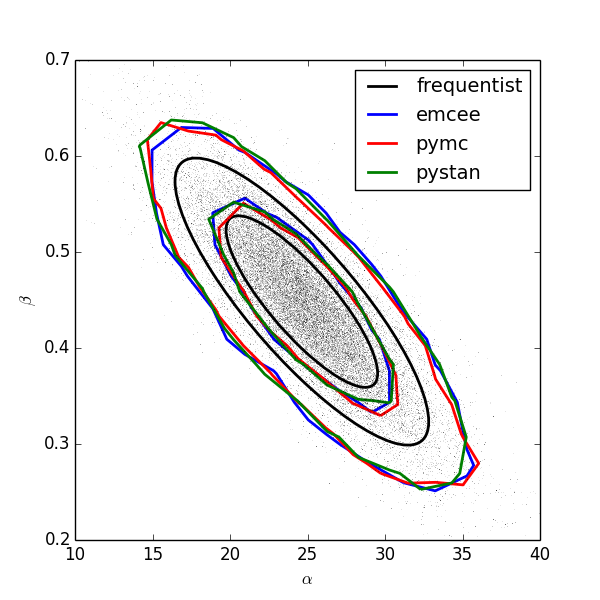
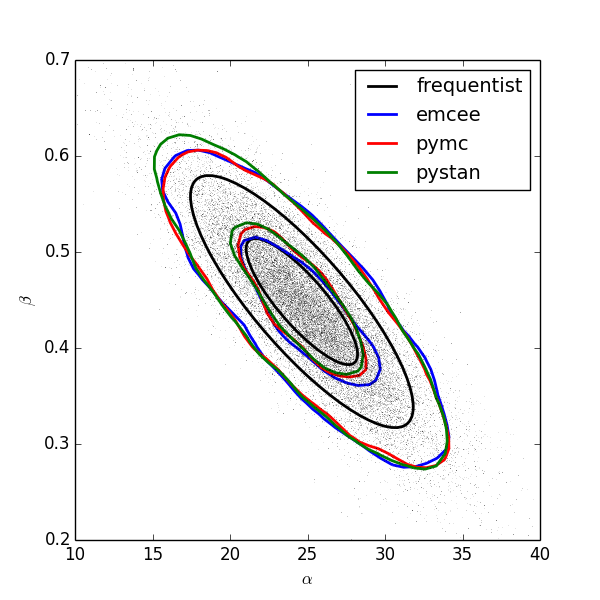
fix 1sigma 2sigma results

Changed region(s): [[0.21, 0.18, 0.81, 0.84]]

diff --git a/papers/jake_vanderplas/generate_figures.py b/papers/jake_vanderplas/generate_figures.py
@@ -1,7 +1,7 @@
 import numpy as np
 import matplotlib.pyplot as plt
 from scipy import stats
-from scipy.special import erfinv
+from scipy import ndimage
 
 
 ############################################################
@@ -139,7 +139,7 @@ print("PyStan version: {0}".format(pystan.__version__))
 # Create the Stan model
 #  this is done by defining a string of Stan code.
 
-fit_code = """
+model_code = """
 data {
     int<lower=0> N; // number of points
     real x[N]; // x values
@@ -171,18 +171,19 @@ model {
 """
 
 # perform the fit
-fit_data = {'N': len(xdata), 'x': xdata, 'y': ydata}
-fit = pystan.stan(model_code=fit_code, data=fit_data, iter=25000, chains=4)
+data = {'N': len(xdata), 'x': xdata, 'y': ydata}
+fit = pystan.stan(model_code=model_code, data=data,
+                  iter=25000, chains=4)
 
 # extract the traces
-traces = fit.extract()
-pystan_trace = [traces['alpha'], traces['beta'], traces['sigma']]
+tr = fit.extract()
+pystan_trace = [tr['alpha'], tr['beta'], tr['sigma']]
 
 #----------------------------------------------------------------------
 # Visualize the results
 # Create some convenience routines for plotting
 
-def compute_sigma_level(trace1, trace2, nbins=20):
+def compute_sigma_level(trace1, trace2, nbins=20, smoothing=3):
     """From a set of traces, bin by number of standard deviations"""
     L, xbins, ybins = np.histogram2d(trace1, trace2, nbins)
     L[L == 0] = 1E-16
@@ -197,17 +198,27 @@ def compute_sigma_level(trace1, trace2, nbins=20):
 
     L_cumsum = L[i_sort].cumsum()
     L_cumsum /= L_cumsum[-1]
+
+    sigma = L_cumsum[i_unsort].reshape(shape)
+
+    if smoothing > 1:
+        sigma = ndimage.zoom(sigma, smoothing)
+        xbins = np.linspace(xbins[0], xbins[-1], sigma.shape[0] + 1)
+        ybins = np.linspace(ybins[0], ybins[-1], sigma.shape[1] + 1)
     
     xbins = 0.5 * (xbins[1:] + xbins[:-1])
     ybins = 0.5 * (ybins[1:] + ybins[:-1])
 
-    return xbins, ybins, L_cumsum[i_unsort].reshape(shape)
+    return xbins, ybins, sigma
 
 
-def plot_MCMC_trace(ax, xdata, ydata, trace, scatter=False, **kwargs):
+def plot_MCMC_trace(ax, xdata, ydata, trace, scatter=False,
+                    nbins=20, smoothing=3, **kwargs):
     """Plot traces and contours"""
-    xbins, ybins, sigma = compute_sigma_level(trace[0], trace[1])
-    ax.contour(xbins, ybins, sigma.T, levels=[0.683, 0.955], **kwargs)
+    xbins, ybins, sigma = compute_sigma_level(trace[0], trace[1],
+                                              nbins, smoothing)
+
+    ax.contour(xbins, ybins, sigma.T, levels=[0.683 ** 2, 0.955 ** 2], **kwargs)
     if scatter:
         ax.plot(trace[0], trace[1], ',k', alpha=0.1)
     ax.set_xlabel(r'$\alpha$')
@@ -240,12 +251,9 @@ plot_MCMC_trace(ax, xdata, ydata, pystan_trace,
 from matplotlib.patches import Ellipse
 
 sigma1, sigma2, alpha = get_principal(Sigma_freq)
-for level in [0.683, 0.955]:
-    # 2 dimensions: we need frac^2 = level
-    # in order to compare directly with MCMC contours
-    nsigma_eff = np.sqrt(2) * erfinv(np.sqrt(level))
+for nsigma in [1, 2]:
     ax.add_patch(Ellipse(theta_freq,
-                         2 * nsigma_eff * sigma1, 2 * nsigma_eff * sigma2,
+                         2 * nsigma * sigma1, 2 * nsigma * sigma2,
                          angle=np.degrees(alpha),
                          lw=2, ec='k', fc='none'))
 

diff --git a/papers/jake_vanderplas/jake_vanderplas.rst b/papers/jake_vanderplas/jake_vanderplas.rst
@@ -1,6 +1,6 @@
 :author: Jake VanderPlas
 :email: jakevdp@cs.washington.edu
-:institution: University of Washington
+:institution: eScience Institute, University of Washington
 
 ---------------------------------------------------
 Frequentism and Bayesianism: A Python-driven Primer
@@ -8,7 +8,7 @@ Frequentism and Bayesianism: A Python-driven Primer
 
 .. class:: abstract
 
-   This paper gives a brief, semi-technical introduction to the essential differences between the frequentist and Bayesian approaches to statistical inference, with examples implemented in Python. The fundamental difference between frequentism and Bayesianism is a matter of the definition of probability. This difference of philosophy leads to different approaches to certain problems, and different ways of asking and answering questions about unknown parameters. After discussing these and giving some examples, we briefly compare three leading Python packages for performing Bayesian inference in practice. [#blog]_
+   This paper gives a brief, semi-technical introduction to the essential differences between the frequentist and Bayesian approaches to statistical inference, with examples implemented in Python. The fundamental difference between frequentism and Bayesianism is a matter of the definition of probability. This difference of philosophy leads to different approaches to certain problems, and different ways of asking and answering questions about unknown parameters. After discussing these and giving some examples, we briefly compare three leading Python packages for performing Bayesian inference in Python via Markov Chain Monte Carlo. [#blog]_
 
 .. class:: keywords
 
@@ -39,9 +39,9 @@ A Simple Example: Photon Counts
 -------------------------------
 Here we'll take a look at an extremely simple problem, and compare the frequentist and Bayesian approaches to solving it. Imagine that we point a telescope to the sky, and observe the light coming from a single star. For simplicity, we'll assume that the star's true flux is constant with time, i.e. that is it has a fixed value :math:`F`; we'll also ignore effects like sky background systematic errors. We'll assume that a series of :math:`N` measurements are performed, where the :math:`i^{\rm th}` measurement reports the observed photon flux :math:`F_i` and error :math:`e_i`. The question is, given this set of measurements :math:`D = \{F_i,e_i\}`, what is our best estimate of the true flux :math:`F`? [#note_about_errors]_ 
 
-.. [#note_about_errors] We'll make the reasonable assumption that measurement errors are Gaussian. In a Frequentist perspective, :math:`e_i` is the standard deviation of the results of a single measurement event in the limit of repetitions of *that event*. In the Bayesian perspective, :math:`e_i` describes the probability distribution of our knowledge of that particular measurement given its observed value.
+.. [#note_about_errors] We'll make the reasonable assumption of normally-distributed measurement errors. In a Frequentist perspective, :math:`e_i` is the standard deviation of the results of the single measurement event in the limit of (imaginary) repetitions of *that event*. In the Bayesian perspective, :math:`e_i` describes the probability distribution which quantifies our knowledge of :math:`x` given :math:`x_i`.
 
-First we'll use Python to generate some toy data to demonstrate the two approaches to the problem. We'll draw 50 samples with a mean of 1000, with a (known) error :math:`e_i` on point :math:`i`:
+First we'll use Python to generate some toy data to demonstrate the two approaches to the problem. We'll draw 50 samples :math:`F_i` with a mean of 1000 and a (known) error :math:`e_i`:
 
 .. code-block:: python
 
@@ -49,38 +49,36 @@ First we'll use Python to generate some toy data to demonstrate the two approach
     >>> e = np.random.normal(30, 3, 50)
     >>> F = np.random.normal(1000, e)
 
-In this toy example we already know the true flux :math:`F`, but the question is this: **given our measurements and errors, what is our best point estimate of the true flux?**
-
-Let's take a look at the frequentist and Bayesian approaches to solving this.
+In this toy example we already know the true flux :math:`F`, but the question is this: given our measurements and errors, what is our best point estimate of the true flux? Let's look at a frequentist and a Bayesian approach to solving this.
 
 
 Frequentist Approach to Photon Counts
 ~~~~~~~~~~~~~~~~~~~~~~~~~~~~~~~~~~~~~
-We'll start with the classical frequentist **maximum likelihood** approach. Given a single observation :math:`D_i = (F_i, e_i)`, we can compute the probability distribution of the measurement given the true flux :math:`F` given our assumption of Gaussian errors:
+We'll start with the classical frequentist maximum likelihood approach. Given a single observation :math:`D_i = (F_i, e_i)`, we can compute the probability distribution of the measurement given the true flux :math:`F` given our assumption of Gaussian errors:
 
 .. math::
 
     P(D_i|F) = \left(2\pi e_i^2\right)^{-1/2} \exp{\left(\frac{-(F_i - F)^2}{2 e_i^2}\right)}.
 
-This should be read "the probability of :math:`D_i` given :math:`F` equals ...". You should recognize this as a normal distribution with mean :math:`F` and standard deviation :math:`e_i`. We construct the **likelihood** by computing the product of the probabilities for each data point:
+This should be read "the probability of :math:`D_i` given :math:`F` equals ...". You should recognize this as a normal distribution with mean :math:`F` and standard deviation :math:`e_i`. We construct the *likelihood* by computing the product of the probabilities for each data point:
 
 .. math::
 
     \mathcal{L}(D|F) = \prod_{i=1}^N P(D_i|F)
 
-Here :math:`D = \{D_i\}` represents the entire set of measurements. Because the value of the likelihood can become very small, it is often more convenient to instead compute the log-likelihood. Combining the previous two equations:
+Here :math:`D = \{D_i\}` represents the entire set of measurements. Because the value of the likelihood can become very small, it is often more convenient to instead compute the log-likelihood. Combining the previous two equations gives
 
 .. math::
 
-    \log\mathcal{L} = -\frac{1}{2} \sum_{i=1}^N \left[ \log(2\pi  e_i^2) + \frac{(F_i - F)^2}{e_i^2} \right]
+    \log\mathcal{L} = -\frac{1}{2} \sum_{i=1}^N \left[ \log(2\pi  e_i^2) + \frac{(F_i - F)^2}{e_i^2} \right].
 
-What we'd like to do is determine :math:`F` such that the likelihood is maximized. For this simple problem, the maximization can be computed analytically (i.e. by setting :math:`d\log\mathcal{L}/dF = 0`), which results in the following point estimate of :math:`F`:
+What we'd like to do is determine :math:`F` such that the likelihood is maximized. For this simple problem, the maximization can be computed analytically (i.e. by setting :math:`d\log\mathcal{L}/dF|_{\hat{F}} = 0`), which results in the following point estimate of :math:`F`:
 
 .. math::
 
     \hat{F} = \frac{\sum w_i F_i}{\sum w_i};~~w_i = 1/e_i^2
 
-The result is a simple weighted mean of the observed values. Notice that in the case of equal errors, the weights cancel and :math:`\hat{F}` is simply the mean of the observed data.
+The result is a simple weighted mean of the observed values. Notice that in the case of equal errors, the weights cancel and :math:`\hat{F}` is given by the mean of the observed data.
 
 We can go further and ask what the uncertainty of our estimate is. In the frequentist approach, this can be accomplished using a Gaussian approximation to the peak likelihood; in this simple case this fit can also be solved analytically to give:
 
@@ -142,7 +140,7 @@ Where The Results Diverge
 -------------------------
 In the simple example above, the frequentist and Bayesian approaches give basically the same result. While it is easy to show that the two approaches are often equivalent for simple problems, it is also true that they can diverge greatly for more complicated problems. In practice, this divergence most often makes itself most clear in two different ways:
 
-1. The handling of nuisance parameters, or parameters which vary within the analysis, but have their effects removed in the final results.
+1. The handling of nuisance parameters: i.e. parameters which affect the final result, but are not otherwise of interest.
 2. The subtle (and often overlooked) difference between frequentist confidence intervals and Bayesian credible intervals.
 
 We'll discuss these two situations in more detail in the following sections.
@@ -153,13 +151,13 @@ We'll start by discussing the first point: nuisance parameters. A nuisance param
 
 Let's consider an example of nuisance parameters that, in one form or another, dates all the way back to the posthumous 1763 paper written by Thomas Bayes himself [Bayes1763]_. The particular version of this problem used here is borrowed from [Eddy2004]_. The setting is a gambling game in which Alice and Bob bet on the outcome of a process they can't directly observe.
 
-Alice and Bob enter a room. Behind a curtain there is a billiard table, which they cannot see. Their friend Carol rolls a ball down the table, and marks where it lands. Once this mark is in place, Carol begins rolling new balls down the table. If the ball lands to the left of the mark, Alice gets a point; if it lands to the right of the mark, Bob gets a point.  We can assume for the sake of example that Carol's rolls are unbiased: that is, the balls have an equal chance of ending up anywhere on the table.  The first person to reach **six points** wins the game.
+Alice and Bob enter a room. Behind a curtain there is a billiard table, which they cannot see. Their friend Carol rolls a ball down the table, and marks where it lands. Once this mark is in place, Carol begins rolling new balls down the table. If the ball lands to the left of the mark, Alice gets a point; if it lands to the right of the mark, Bob gets a point.  We can assume for the sake of example that Carol's rolls are unbiased: that is, the balls have an equal chance of ending up anywhere on the table.  The first person to reach six points wins the game.
 
 Here the location of the mark (determined by the first roll) can be considered a nuisance parameter: it is unknown -- perhaps even unknowable -- and not of immediate interest, but it clearly must be accounted for when predicting the outcome of subsequent rolls. If the first roll settles far to the right, then subsequent rolls will favor Alice. If it settles far to the left, Bob will be favored instead.
 
 Given this setup, here is the question to answer: *In a particular game, after eight rolls, Alice has five points and Bob has three points. What is the probability that Bob will go on to win the game?*
 
-Intuitively, we realize that because Alice received five of the eight points, the marker placement likely favors her. Given that she has three opportunities to get a favorable roll before Bob can win; she seems to have clinched it.  But quantitatively speaking, what is the probability that Bob will persist to win?
+Intuitively, we realize that because Alice received five of the eight points, the marker placement likely favors her. Given that she has three opportunities to get a favorable roll before Bob can win, she seems to have clinched it.  But quantitatively speaking, what is the probability that Bob will persist to win?
 
 
 A Naïve Frequentist Approach
@@ -245,16 +243,16 @@ The Bayesian approach gives odds of 10 to 1 against Bob, while the naïve freque
 
 For a simple problem like this, we can answer this question empirically by using a Monte Carlo simulation in which we simulate a large number of games and count the fraction of suitable games which Bob goes on to win. This can be coded in a couple dozen lines of Python (see part II of [VanderPlas2014]_). The result of such a simulation confirms the Bayesian result: 10 to 1 against Bob winning.
 
-So what is the takeaway: is frequentism wrong? On the contrary: in this case, the incorrect result is more a matter of the approach being "naïve" than it being "frequentist". The result above is equivalent to collapsing the prior to a delta function at :math:`p = 5/8`. Frequentism can certainly handle this by, e.g. applying a transformation and conditioning of the data to isolate dependence on :math:`p`, or by performing a Bayesian-like integral over the sampling distribution of the estimator :math:`\hat{p}`.
+So what is the takeaway: is frequentism wrong? On the contrary: in this case, the incorrect result is more a matter of the approach being "naïve" than it being "frequentist". The approach above does not consider how :math:`p` may vary. Frequentism can certainly address this by, e.g. applying a transformation and conditioning of the data to isolate dependence on :math:`p`, or by performing a Bayesian-like integral over the sampling distribution of the frequentist estimator :math:`\hat{p}`.
 
 Another potential point of contention is that the question itself is posed in a way that is perhaps unfair to the classical, frequentist approach. A frequentist might instead hope to give the answer in terms of null tests or confidence intervals: that is, they might devise a procedure to construct limits which would provably bound the correct answer in :math:`100\times(1 - \alpha)` percent of similar trials, for some value of :math:`\alpha` – say, 0.05. We'll further discuss the meaning of such confidence intervals below.
 
-There is one clear common point of these two frequentist responses: both require some degree of effort and/or special expertise; perhaps a suitable frequentist approach would be immediately obvious to an expert statistician, but is not particularly obvious to a statistical lay-person simply trying to answer the question at hand. In this sense, it could be argued that Bayesianism provides a better framework for solving this sort of problem involving nuisance parameters: by simple algebraic manipulation of a few well-known axioms of probability interpreted in a Bayesian sense, we straightforwardly arrive at the correct answer without need for other special statistical expertise.
+There is one clear common point of these two frequentist responses: both require some degree of effort and/or special expertise in classical methods; perhaps a suitable frequentist approach would be immediately obvious to an expert statistician, but is not particularly obvious to a statistical lay-person simply trying to answer the question at hand. In this sense, it could be argued that Bayesianism provides a better framework for solving this sort of problem involving nuisance parameters: by simple algebraic manipulation of a few well-known axioms of probability interpreted in a Bayesian sense, we straightforwardly arrive at the correct answer without need for other special statistical expertise.
 
 
 Confidence vs. Credibility: Jaynes' Truncated Exponential
 ---------------------------------------------------------
-A second consequence of the philosophical difference between frequentism and Bayesianism is the difference between frequentist confidence intervals (CIs) and Bayesian credible regions (CRs), which are the standard frequentist and Bayesian methods for constructing uncertainty bounds on unknown parameters. Despite their apparent similarity, the two approaches are fundamentally different. Both are statements of probability, but the probability refers to different aspects of the bound. For example, when constructing a standard 95% (:math:`2\sigma`) bound about a parameter :math:`\theta`:
+A second major consequence of the philosophical difference between frequentism and Bayesianism is the difference between frequentist confidence intervals (CIs) and Bayesian credible regions (CRs), which are the standard frequentist and Bayesian methods for constructing uncertainty bounds on unknown parameters. Despite their apparent similarity, the two approaches are fundamentally different. Both are statements of probability, but the probability refers to different aspects of the bound. For example, when constructing a standard 95% (:math:`2\sigma`) bound about a parameter :math:`\theta`:
 
 - A Bayesian would say: "Given our observed data, there is a 95% probability that the true value of :math:`\theta` lies within the credible region".
 - A frequentist would say: "If this experiment is repeated many times, in 95% of these cases the computed confidence interval will contain the true :math:`\theta`. [#wasserman_note]_
@@ -429,15 +427,15 @@ The confidence interval around this value is an ellipse in parameter space defin
 .. math::
 
     \Sigma_{\hat{\theta}}
-                   = \sigma_y^2 (M^TM)^{-1}
-                   = \left[
+                   \equiv \left[
                       \begin{array}{ll}
                          \sigma_\alpha^2 & \sigma_{\alpha\beta} \\
                           \sigma_{\alpha\beta} & \sigma_\beta^2
                       \end{array}
-                    \right] = \sigma_y (M^TM)^{-1}
+                    \right]
+                   = \sigma^2 (M^TM)^{-1}.
 
-Here :math:`\sigma` can be estimated based on the variance of the residuals about the fit, and the off-diagonal elements of :math:`\Sigma_{\hat{\theta}}` are the correlated uncertainty between the estimates. In code, this is what it looks like:
+Here :math:`\sigma` is our unknown error term; it can be estimated based on the variance of the residuals about the fit. The off-diagonal elements of :math:`\Sigma_{\hat{\theta}}` are the correlated uncertainty between the estimates. In code, this is what it looks like:
 
 .. code-block:: python
 
@@ -461,7 +459,7 @@ The Bayesian result is encapsulated in the posterior, which is proportional to t
 
 (See [VanderPlas2014]_, part IV for a straightforward derivation of this). [#note_priors]_ With this prior and the above likelihood, we are prepared to numerically evaluate the posterior.
 
-.. [#note_priors] The use of uninformative priors like this one raises some eyebrows among frequentists: there are good arguments that such priors still add information to the results (see e.g. [Evans2002]_).
+.. [#note_priors] The use of uninformative priors like this often raises eyebrows among frequentists: there are good arguments that even "uninformative" priors add information; see e.g. [Evans2002]_.
 
 
 Solution with emcee
@@ -570,7 +568,7 @@ PyStan is the official Python interface to Stan, a probabilistic programming lan
 
     import pystan
 
-    fit_code = """
+    model_code = """
     data {
         int<lower=0> N; // number of points
         real x[N]; // x values
@@ -598,11 +596,11 @@ PyStan is the official Python interface to Stan, a probabilistic programming lan
     """
 
     # perform the fit & extract traces
-    fit_data = {'N': len(xdata), 'x': xdata, 'y': ydata}
-    fit = pystan.stan(model_code=fit_code, data=fit_data,
+    data = {'N': len(xdata), 'x': xdata, 'y': ydata}
+    fit = pystan.stan(model_code=model_code, data=data,
                       iter=25000, chains=4)
-    ex = fit.extract()
-    trace = [ex['alpha'], ex['beta'], ex['sigma']]
+    tr = fit.extract()
+    trace = [tr['alpha'], tr['beta'], tr['sigma']]
 
 The result is shown by the green curve in Figure :ref:`fig1`.
 
@@ -613,14 +611,14 @@ Comparison
 
    Comparison of model fits using frequentist maximum likelihood, and Bayesian MCMC using three Python packages: emcee, PyMC, and PyStan. :label:`fig1`
 
-The :math:`1\sigma` and :math:`2\sigma` (68% and 95%) posterior credible regions computed with these three packages are shown beside the corresponding frequentist confidence intervals in Figure :ref:`fig1`. The frequentist result results in slightly tighter bounds; this is primarily due to the fact that the confidence interval is computed assuming a single maximum likelihood estimate of the scatter, :math:`\sigma`. This interpretation can be confirmed by plotting the posterior conditioned on the frequentist estimate :math:`\hat{\sigma}`: the result of this is a credible region nearly indistinguishable from the frequentist confidence interval.
+The :math:`1\sigma` and :math:`2\sigma` posterior credible regions computed with these three packages are shown beside the corresponding frequentist confidence intervals in Figure :ref:`fig1`. The frequentist result gives slightly tighter bounds; this is primarily due to the confidence interval being computed assuming a single maximum likelihood estimate of the unknown scatter, :math:`\sigma`. This interpretation can be confirmed by plotting the Bayesian posterior conditioned on the maximum likelihood estimate :math:`\hat{\sigma}`; this gives a credible region much closer to the frequentist confidence interval.
 
-The three MCMC implementations are very different: emcee offers perhaps the simplest interface, while PyMC requires more specific boilerplate code. PyStan has the most complicated interface, as the actual model specification takes place in a string of Stan code.  The three packages also use different sampling schemes: by default, PyMC uses classic Metropolis-Hastings, PyStan uses a No U-Turn Sampler (NUTS), while emcee uses an affine-invariant ensemble MCMC. These approaches have varying performance characteristics depending on the features of the posterior being explored. As expected for the near-Gaussian posterior used here, the three approaches give very similar results.
+The similarity of the three MCMC results belie the differences in algorithms used to compute them: by default, PyMC uses a Metropolis-Hastings sampler, PyStan uses a No U-Turn Sampler (NUTS), while emcee uses an affine-invariant ensemble sampler.  These approaches are known to have differing performance characteristics depending on the features of the posterior being explored. As expected for the near-Gaussian posterior used here, the three approaches give very similar results. As far as the interface, emcee is perhaps the simplest, while PyMC requires more package-specific boilerplate code. PyStan is the most complicated, as the model specification requires writing a string of Stan code.
 
 
 Conclusion
 ----------
-This paper has offered a brief practical glimpse at the differences between frequentist and Bayesian statistics. The difference between the two approaches stem from different conceptions of probability. Though the two approaches often give indistinguishable results in simple problems, we considered two specific situations in which they differ: the treatment of nuisance parameters, and the interpretation of uncertainties in estimates. Finally, we took a detailed look at the application of these approaches to a simple linear model; and showed how the frequentist and Bayesian results can be computed using tools available in the Python programming language.
+This paper has offered a brief practical glimpse at the differences between frequentist and Bayesian statistics, which have their root in differing conceptions of probability. Though the two approaches often give indistinguishable results in simple problems, we considered several specific situations in which the results differ: namely the treatment of nuisance parameters, and the interpretation of uncertainties in estimates. Finally, we took a detailed look at the application of these approaches to a simple linear model, and demonstrated how the frequentist and Bayesian results can be computed using tools available in the Python programming language.
 
 
 
